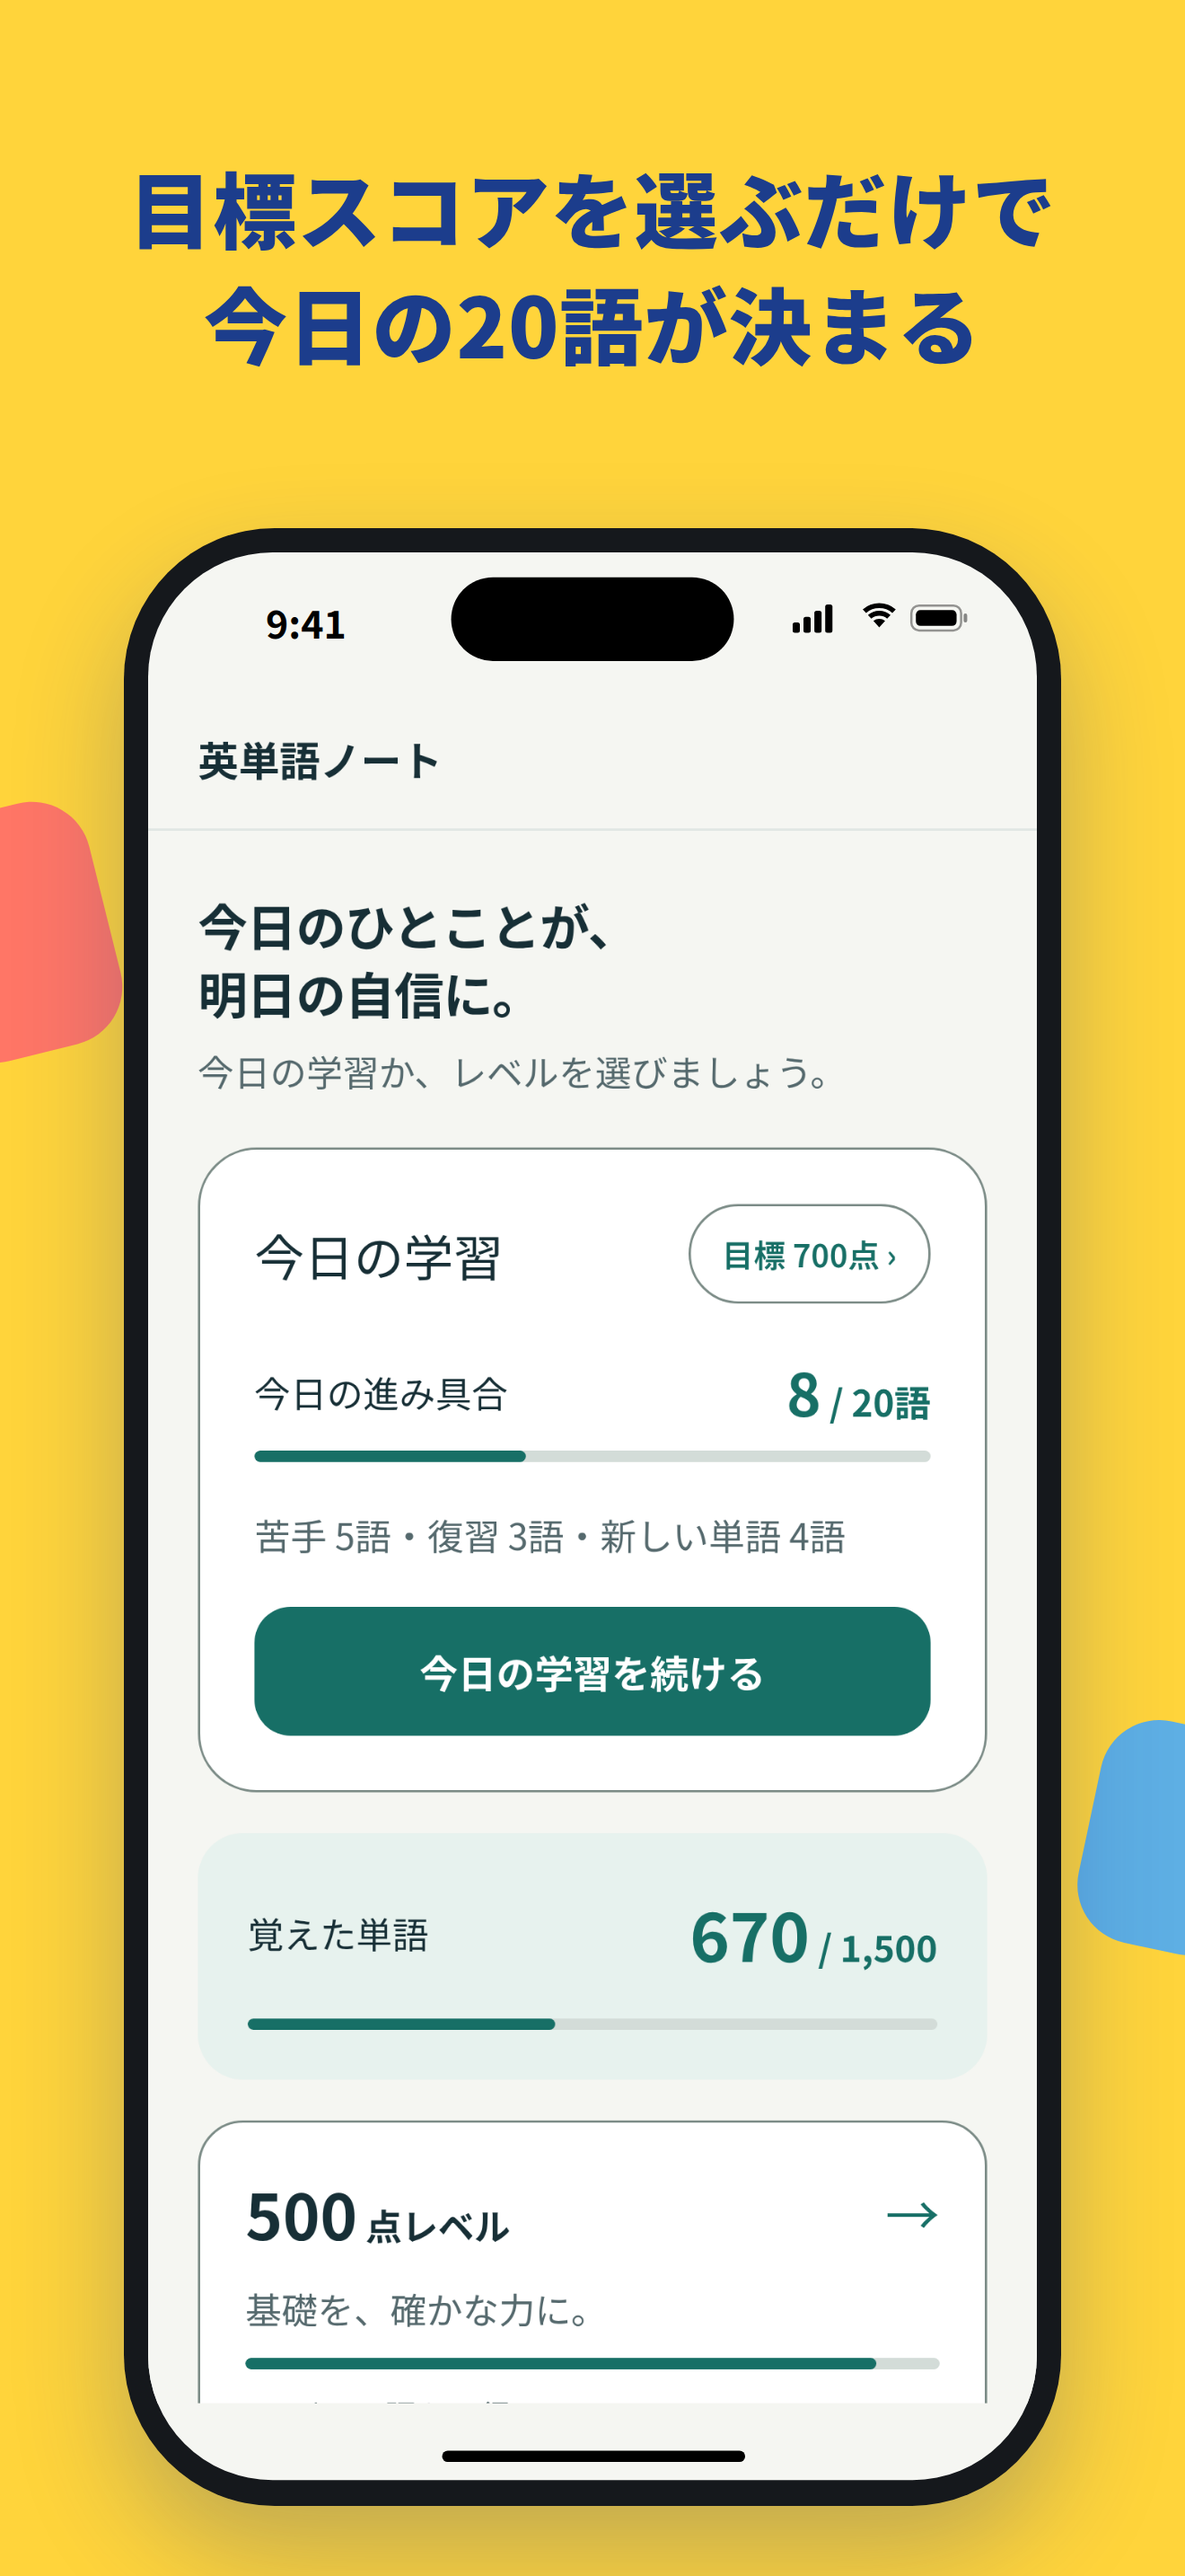
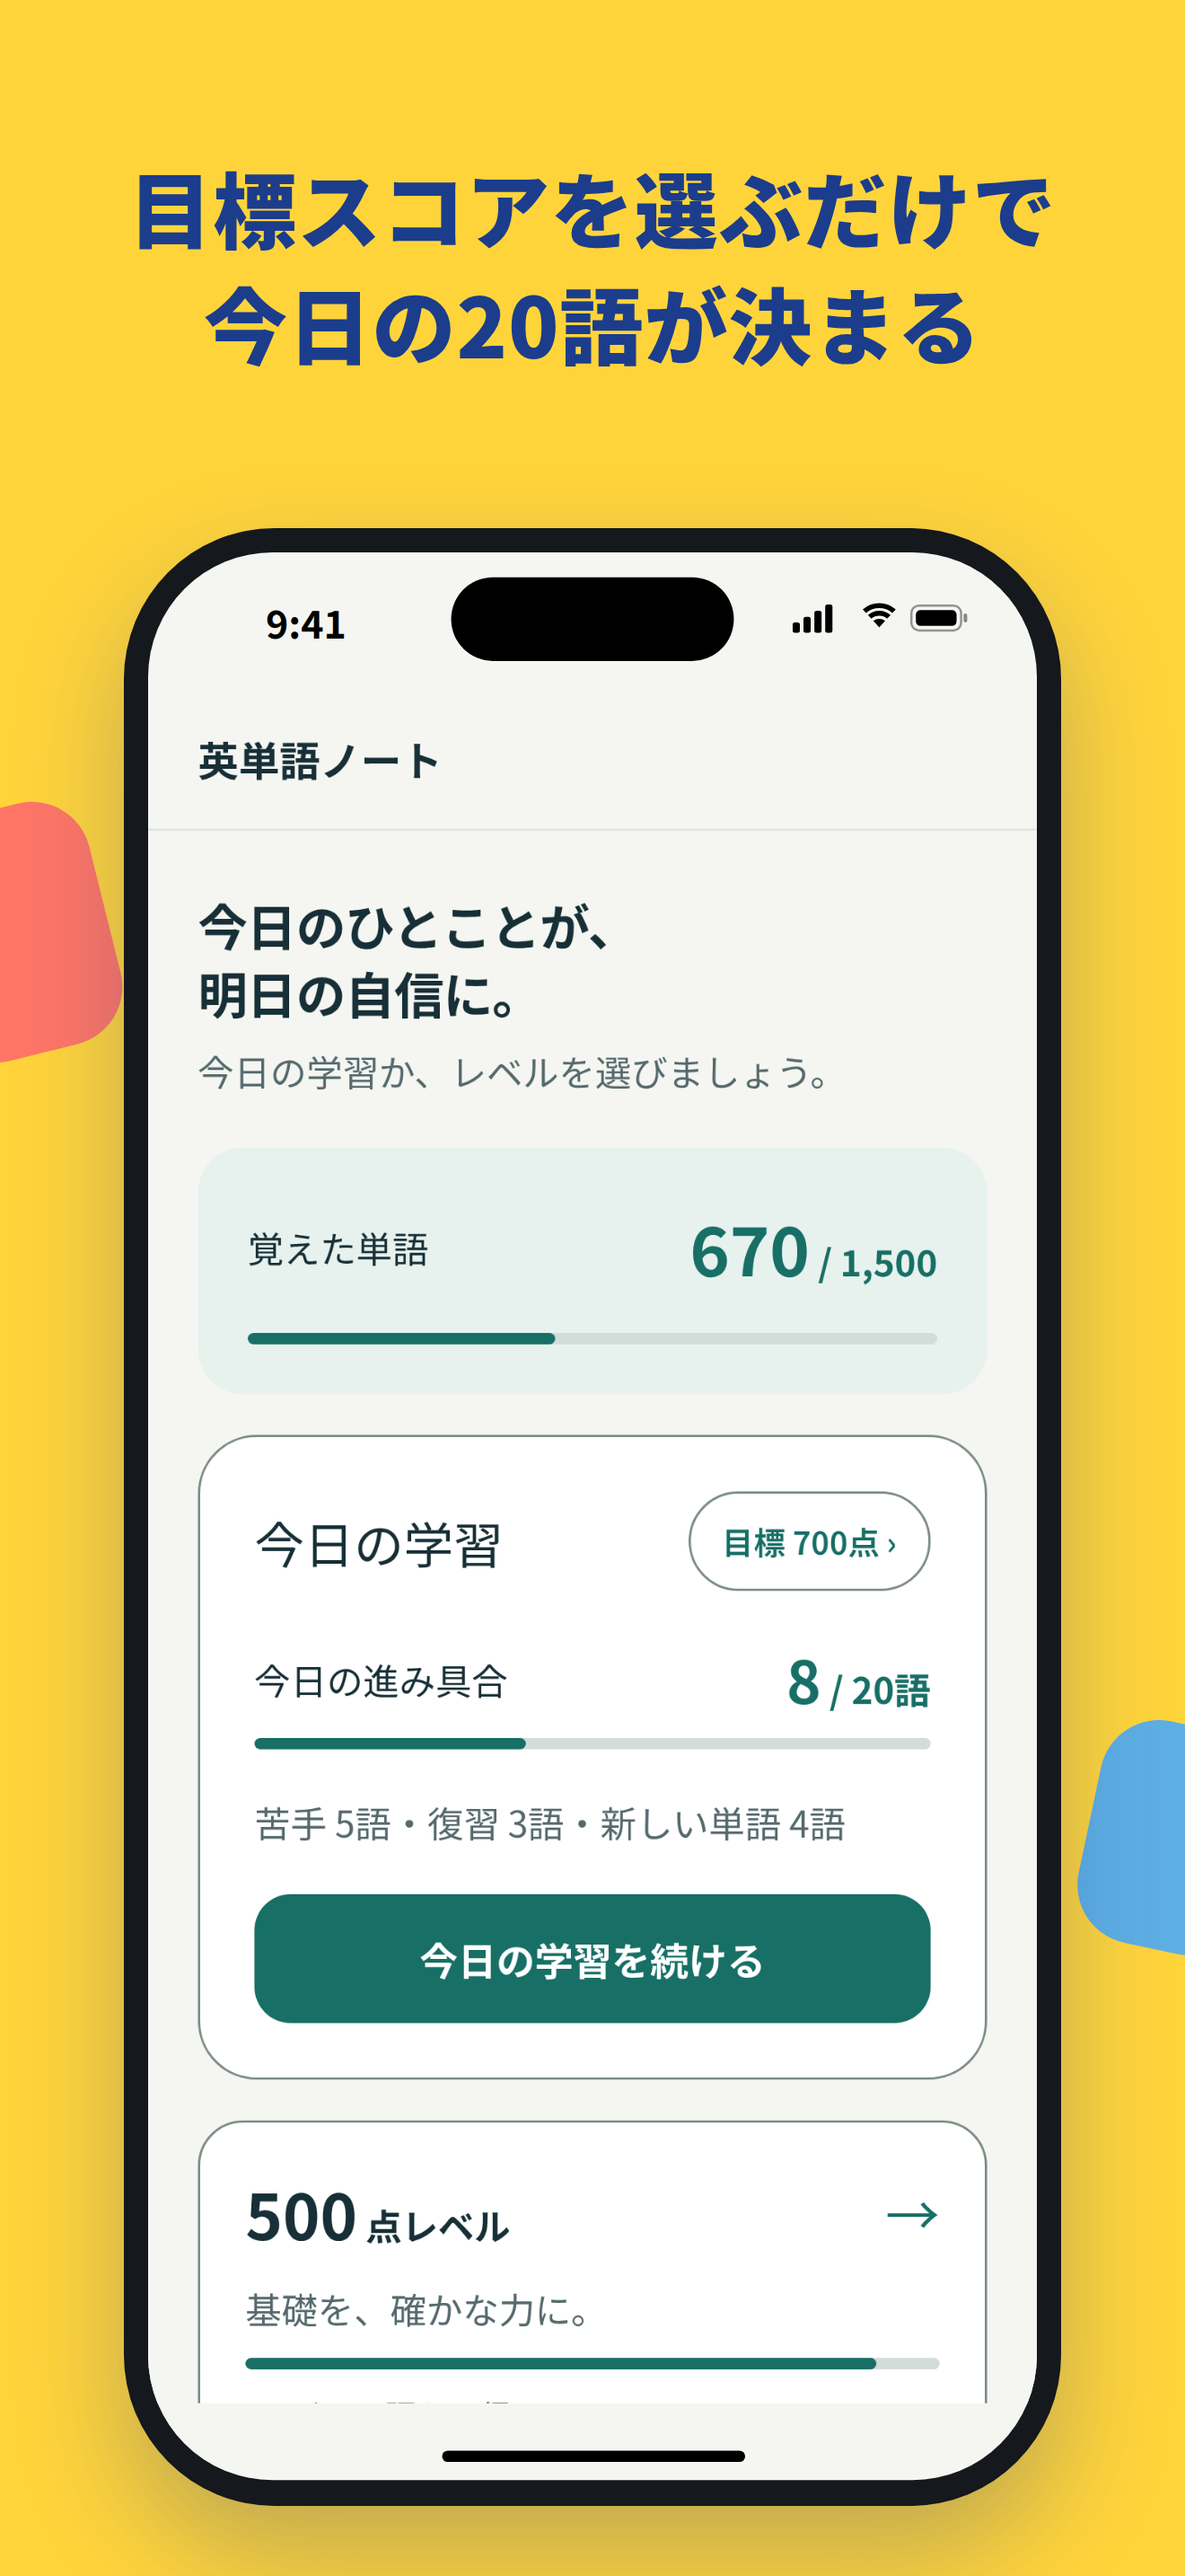
学習カードを左右のスワイプで記録できるようにし、ホームの「覚えた単語」を上に移す
- 学習カードを右にスワイプで「覚えた」、左で「まだ」を記録して次へ（下のボタンと同じ並び）
- スワイプ中はカードが傾き、「覚えた ✓」「まだ」の目印が出る。途中で戻すと記録しない
- ボタンの上から始めても、横に動かせばスワイプになる。縦に動かしたときはスクロールのまま
- これまでどおり、画面のどこをタップしても答えの表示・次へ進める
- ホームで「覚えた単語」を「今日の学習」より上に表示
- Web でマウスでドラッグしたとき文字が選択されないようにする
- README と App Store の説明・スクリーンショット（6枚に）を更新

Claude-Session: https://claude.ai/code/session_01LBTBeXhpGLX35MBE55RY5d

Changed region(s): [[0.1864, 0.4655, 0.8076, 0.8068], [0.8076, 0.6827, 0.8386, 0.7137], [0.1553, 0.6827, 0.1864, 0.7137]]

diff --git a/mobile/App.tsx b/mobile/App.tsx
@@ -2,6 +2,7 @@ import React, { useEffect, useMemo, useRef, useState } from "react";
 import {
   Animated,
   BackHandler,
+  PanResponder,
   Pressable,
   ScrollView,
   StyleSheet,
@@ -43,6 +44,8 @@ const labels = [
   "高得点へ、最後のひと押し。",
 ];
 type Screen = "home" | "mode" | "study" | "studyResult" | "quiz" | "result";
+/** 学習カードをこの距離（px）以上、左右に動かしたら「まだ」「覚えた」を記録する */
+const SWIPE_DISTANCE = 90;
 export default function App() {
   return (
     <SafeAreaProvider>
@@ -165,6 +168,53 @@ function LearningApp() {
   const answerLock = useRef(false);
   const fade = useRef(new Animated.Value(1)).current;
   const scroll = useRef<ScrollView>(null);
+  // 学習画面: タップで答えの表示・次へ、左右のスワイプで「まだ」（左）「覚えた」（右）
+  const swipeX = useRef(new Animated.Value(0)).current;
+  const studyActions = useRef({ tap: () => {}, mark: (_mastered: boolean) => {} });
+  studyActions.current = {
+    tap: studyTap,
+    mark: (mastered) => {
+      if (answerLock.current) return;
+      // 次のカードは元の位置からフェードインさせる
+      fade.setValue(0);
+      swipeX.setValue(0);
+      advanceCard(mastered);
+    },
+  };
+  // 指を動かしたか（動かしてから元の位置に戻した場合はタップにしない）
+  const studyMoved = useRef(false);
+  const studyPan = useRef(
+    PanResponder.create({
+      // 学習画面のどこから触っても受け取る（中のボタンは、ボタンの方が優先される）
+      onStartShouldSetPanResponder: () => true,
+      // ボタンの上から始めても、横に動かしたらスワイプとして受け取る
+      onMoveShouldSetPanResponderCapture: (_, g) =>
+        Math.abs(g.dx) >= 10 && Math.abs(g.dx) > Math.abs(g.dy),
+      // 横に動かし始めたら、縦のスクロールに取られないようにする
+      onPanResponderTerminationRequest: (_, g) => Math.abs(g.dx) < 10,
+      onPanResponderGrant: () => {
+        studyMoved.current = false;
+      },
+      onPanResponderMove: (_, g) => {
+        if (Math.abs(g.dx) >= 10 || Math.abs(g.dy) >= 10) studyMoved.current = true;
+        swipeX.setValue(g.dx);
+      },
+      onPanResponderRelease: (_, g) => {
+        const flicked = Math.abs(g.vx) > 0.6 && Math.abs(g.dx) > 40;
+        if (Math.abs(g.dx) >= SWIPE_DISTANCE || flicked) {
+          studyActions.current.mark(g.dx > 0);
+        } else if (!studyMoved.current) {
+          swipeX.setValue(0);
+          studyActions.current.tap();
+        } else {
+          Animated.spring(swipeX, { toValue: 0, useNativeDriver: true }).start();
+        }
+      },
+      onPanResponderTerminate: () => {
+        Animated.spring(swipeX, { toValue: 0, useNativeDriver: true }).start();
+      },
+    }),
+  ).current;
   const word = queue[index];
   const question = questions[index];
   const total = words.filter((w) => w.score_band === band).length;
@@ -189,6 +239,7 @@ function LearningApp() {
   }, [screen]);
   useEffect(() => {
     scroll.current?.scrollTo({ y: 0, animated: false });
+    swipeX.setValue(0);
     fade.setValue(0);
     Animated.timing(fade, {
       toValue: 1,
@@ -365,6 +416,31 @@ function LearningApp() {
       </View>
     );
   }
+  /** スワイプ中にカードの上に出す「覚えた」「まだ」の目印 */
+  function swipeStamp(
+    label: string,
+    color: string,
+    side: { left: number } | { right: number },
+    inputRange: number[],
+    outputRange: number[],
+  ) {
+    return (
+      <Animated.View
+        pointerEvents="none"
+        style={[
+          s.swipeStamp,
+          side,
+          {
+            borderColor: color,
+            backgroundColor: c.card,
+            opacity: swipeX.interpolate({ inputRange, outputRange, extrapolate: "clamp" }),
+          },
+        ]}
+      >
+        <Text style={[s.swipeStampText, { color }]}>{label}</Text>
+      </Animated.View>
+    );
+  }
   function wordCard(w: Word, showMeaning: boolean) {
     const studying = screen === "study";
     // 学習中のタップは画面全体で受けるので、カード内は表示だけ
@@ -442,7 +518,7 @@ function LearningApp() {
           <Pressable accessibilityRole="button" onPress={studyTap}>
             <Text style={[s.hint, { color: c.muted }]}>
               {showMeaning
-                ? "画面をタップすると、記録せずに次へ"
+                ? "右にスワイプで「覚えた」、左で「まだ」\nタップすると記録せずに次へ"
                 : reverse
                   ? "画面のどこかをタップして英単語を表示"
                   : "画面のどこかをタップして意味を表示"}
@@ -693,7 +769,6 @@ function LearningApp() {
                   "今日の学習か、レベルを選びましょう。",
                   true,
                 )}
-                {todayCard()}
                 <View style={[s.summary, { backgroundColor: c.soft }]}>
                   <View style={s.row}>
                     {text("覚えた単語", 16, c.ink)}
@@ -704,6 +779,7 @@ function LearningApp() {
                   </View>
                   {meter(progress.mastered.length, 1500)}
                 </View>
+                {todayCard()}
                 {bands.map((b, i) => {
                   const n = words.filter((w) => w.score_band === b).length;
                   const m = masteredByBand.get(b) ?? 0;
@@ -835,8 +911,9 @@ function LearningApp() {
             )}
             {screen === "study" &&
               (word ? (
-                // 画面のどこをタップしても答えの表示・次へ進める（片手・親指で操作しやすく）
-                <Pressable accessible={false} onPress={studyTap} style={s.studyArea}>
+                // 画面のどこをタップしても答えの表示・次へ進める（片手・親指で操作しやすく）。
+                // 左右にスワイプすると「まだ」「覚えた」を記録して次へ
+                <View {...studyPan.panHandlers} style={s.studyArea}>
                   <View style={s.row}>
                     <View style={{ flexShrink: 1 }}>
                       {text(
@@ -849,8 +926,24 @@ function LearningApp() {
                     {autoSpeakToggle()}
                   </View>
                   {meter(index, queue.length)}
-                  {wordCard(word, revealed)}
-                </Pressable>
+                  <Animated.View
+                    style={{
+                      transform: [
+                        { translateX: swipeX },
+                        {
+                          rotate: swipeX.interpolate({
+                            inputRange: [-300, 0, 300],
+                            outputRange: ["-6deg", "0deg", "6deg"],
+                          }),
+                        },
+                      ],
+                    }}
+                  >
+                    {wordCard(word, revealed)}
+                    {swipeStamp("覚えた ✓", c.accent, { left: 16 }, [0, SWIPE_DISTANCE], [0, 1])}
+                    {swipeStamp("まだ", c.wrong, { right: 16 }, [-SWIPE_DISTANCE, 0], [1, 0])}
+                  </Animated.View>
+                </View>
               ) : (
                 <>
                   {isToday ? (
@@ -1076,7 +1169,17 @@ const s = StyleSheet.create({
     marginBottom: -8,
   },
   weakBadgeText: { fontSize: 14, lineHeight: 20, fontWeight: "600" },
-  studyArea: { flexGrow: 1, gap: 18, paddingBottom: 44 },
+  // userSelect: Web でカードをマウスでドラッグしたとき、文字が選択されないようにする
+  studyArea: { flexGrow: 1, gap: 18, paddingBottom: 44, userSelect: "none" },
+  swipeStamp: {
+    position: "absolute",
+    top: 16,
+    borderWidth: 2,
+    borderRadius: 12,
+    paddingHorizontal: 12,
+    paddingVertical: 4,
+  },
+  swipeStampText: { fontSize: 18, lineHeight: 26, fontWeight: "800" },
   pill: {
     minHeight: 44,
     borderRadius: 22,
